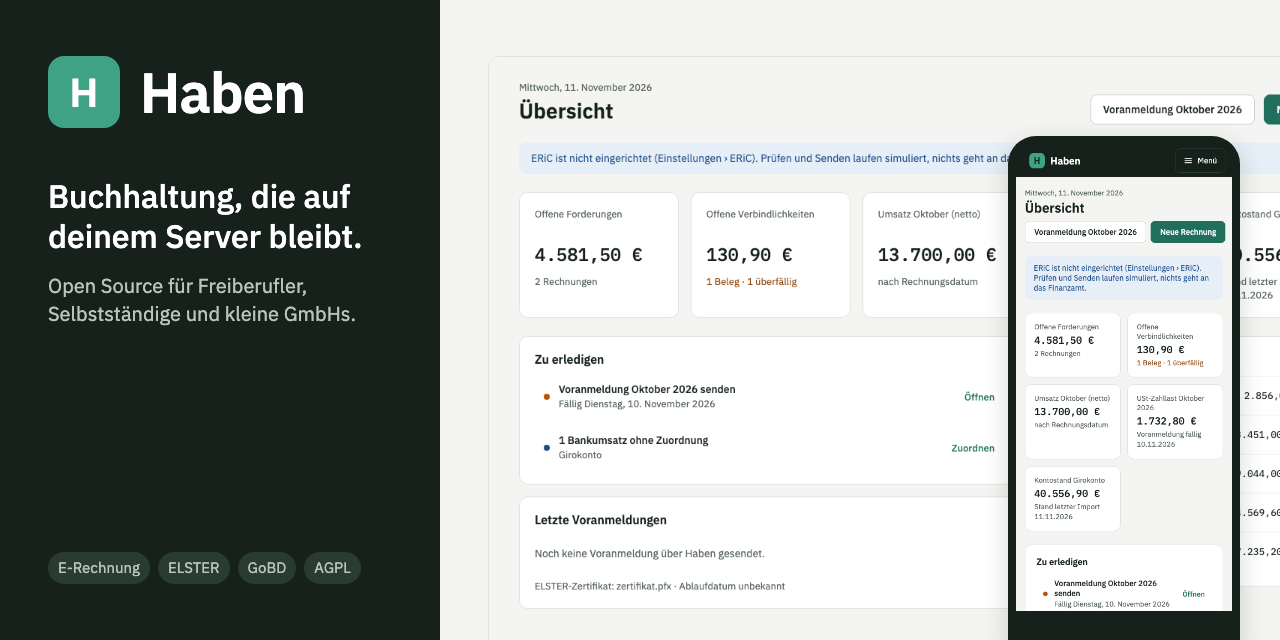
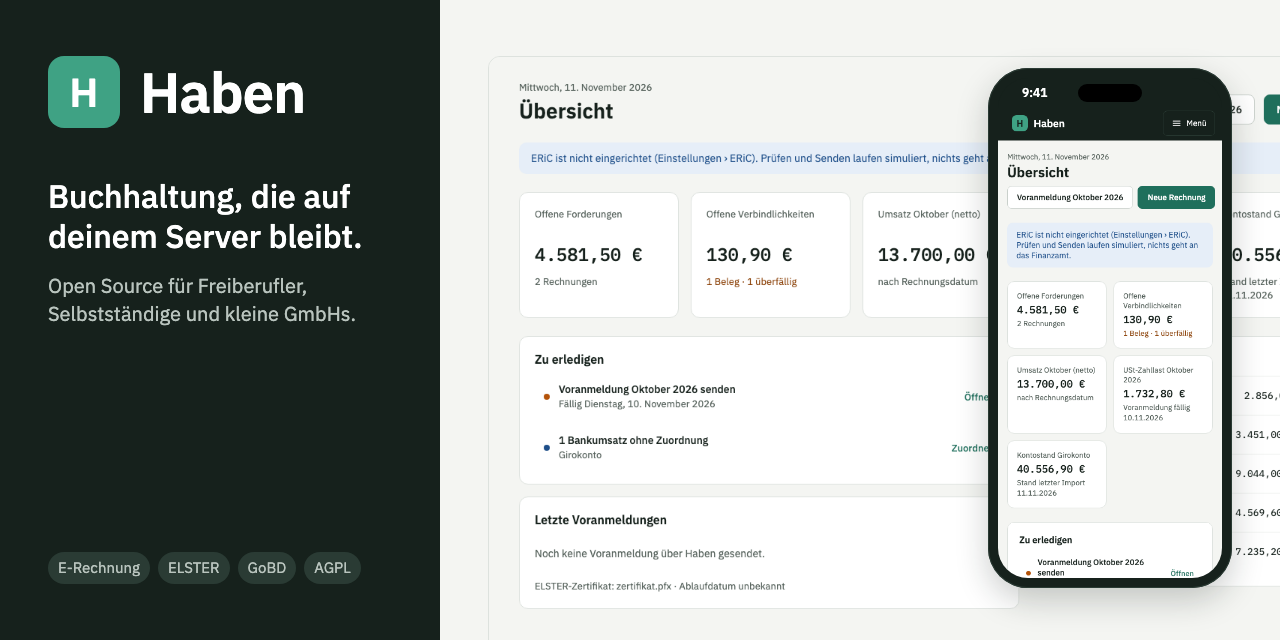
README und Vorschaubild: Herkunft genannt, Handy als ganzes Gerät
„Aus Deutschland, für das deutsche Steuerrecht.“ steht wieder unter „Warum Haben?“, statt
des gestrichenen „Made in Germany“. Im Vorschaubild steht das Handy ganz im Bild, mit
Statusleiste und Kamera, statt unten abgeschnitten.

Changed region(s): [[0.75, 0.0938, 0.9688, 1.0]]

diff --git a/scripts/social-preview/social-preview.html b/scripts/social-preview/social-preview.html
@@ -31,8 +31,13 @@
   .shot { position: absolute; left: 488px; top: 56px; width: 960px; border: 1px solid var(--line); border-radius: 12px 0 0 0; overflow: hidden; }
   /* Ohne die Navigation der App: die steht links schon */
   .shot img { width: 1080px; margin-left: -174px; display: block; }
-  .phone { position: absolute; right: 40px; top: 136px; width: 232px; padding: 8px 8px 0; background: var(--nav); border-radius: 28px 28px 0 0; height: 520px; overflow: hidden; box-shadow: 0 8px 24px rgba(22, 33, 28, 0.18); }
-  .phone img { width: 100%; display: block; border-radius: 20px 20px 0 0; }
+  /* Ganzes Gerät, aufrecht: Rahmen in --nav, Kamera als Pille, Bildschirm im Seitenverhältnis von 390 × 844 */
+  .phone { position: absolute; right: 48px; top: 68px; width: 244px; padding: 10px; background: var(--nav); border-radius: 40px; box-shadow: 0 12px 32px rgba(22, 33, 28, 0.22), 0 0 0 1px #2a3b34 inset; }
+  /* Statusleiste über dem Bild, in der Farbe der Kopfzeile der App am Handy; das Bild selbst hat keine */
+  .phone .screen { position: relative; border-radius: 30px; overflow: hidden; height: 500px; padding-top: 28px; background: var(--nav); }
+  .phone .time { position: absolute; top: 7px; left: 24px; font-size: 12px; font-weight: 600; color: #fff; }
+  .phone .screen img { width: 100%; display: block; }
+  .phone .island { position: absolute; top: 6px; left: 50%; width: 64px; height: 18px; margin-left: -32px; border-radius: 9px; background: #000; }
 </style>
 </head>
 <body>
@@ -43,6 +48,6 @@
     <div class="facts"><span>E-Rechnung</span><span>ELSTER</span><span>GoBD</span><span>AGPL</span></div>
   </aside>
   <div class="shot"><img src="../../docs/screenshot-uebersicht.png" alt=""></div>
-  <div class="phone"><img src="../../docs/screenshot-mobil.png" alt=""></div>
+  <div class="phone"><div class="screen"><img src="../../docs/screenshot-mobil.png" alt=""><div class="island"></div><div class="time">9:41</div></div></div>
 </body>
 </html>

diff --git a/README.md b/README.md
@@ -49,6 +49,8 @@ Lexware Office (früher lexoffice) oder sevDesk und keinen fremden Dienst, der j
 Open-Source-Alternative dazu: eine Web-App für Buchhaltung, Steuern und Rechnungen, die du mit Docker oder Podman
 auf deinem eigenen Server betreibst.
 
+**Aus Deutschland, für das deutsche Steuerrecht.**
+
 - **Ein Weg vom Beleg bis zum Finanzamt**: festschreiben, Zahlung zuordnen, Voranmeldung prüfen und senden
 - **Für die GoBD gebaut**: Festschreibung per Postgres-Trigger, Audit-Log, Korrekturen nur über Storno
 - **Deine Daten bleiben bei dir**: eigener Server, Schlüssel verschlüsselt, Jahresarchiv mit Prüfsummen; KI nur auf Wunsch, auch mit eigenem Modell auf deinem Server
